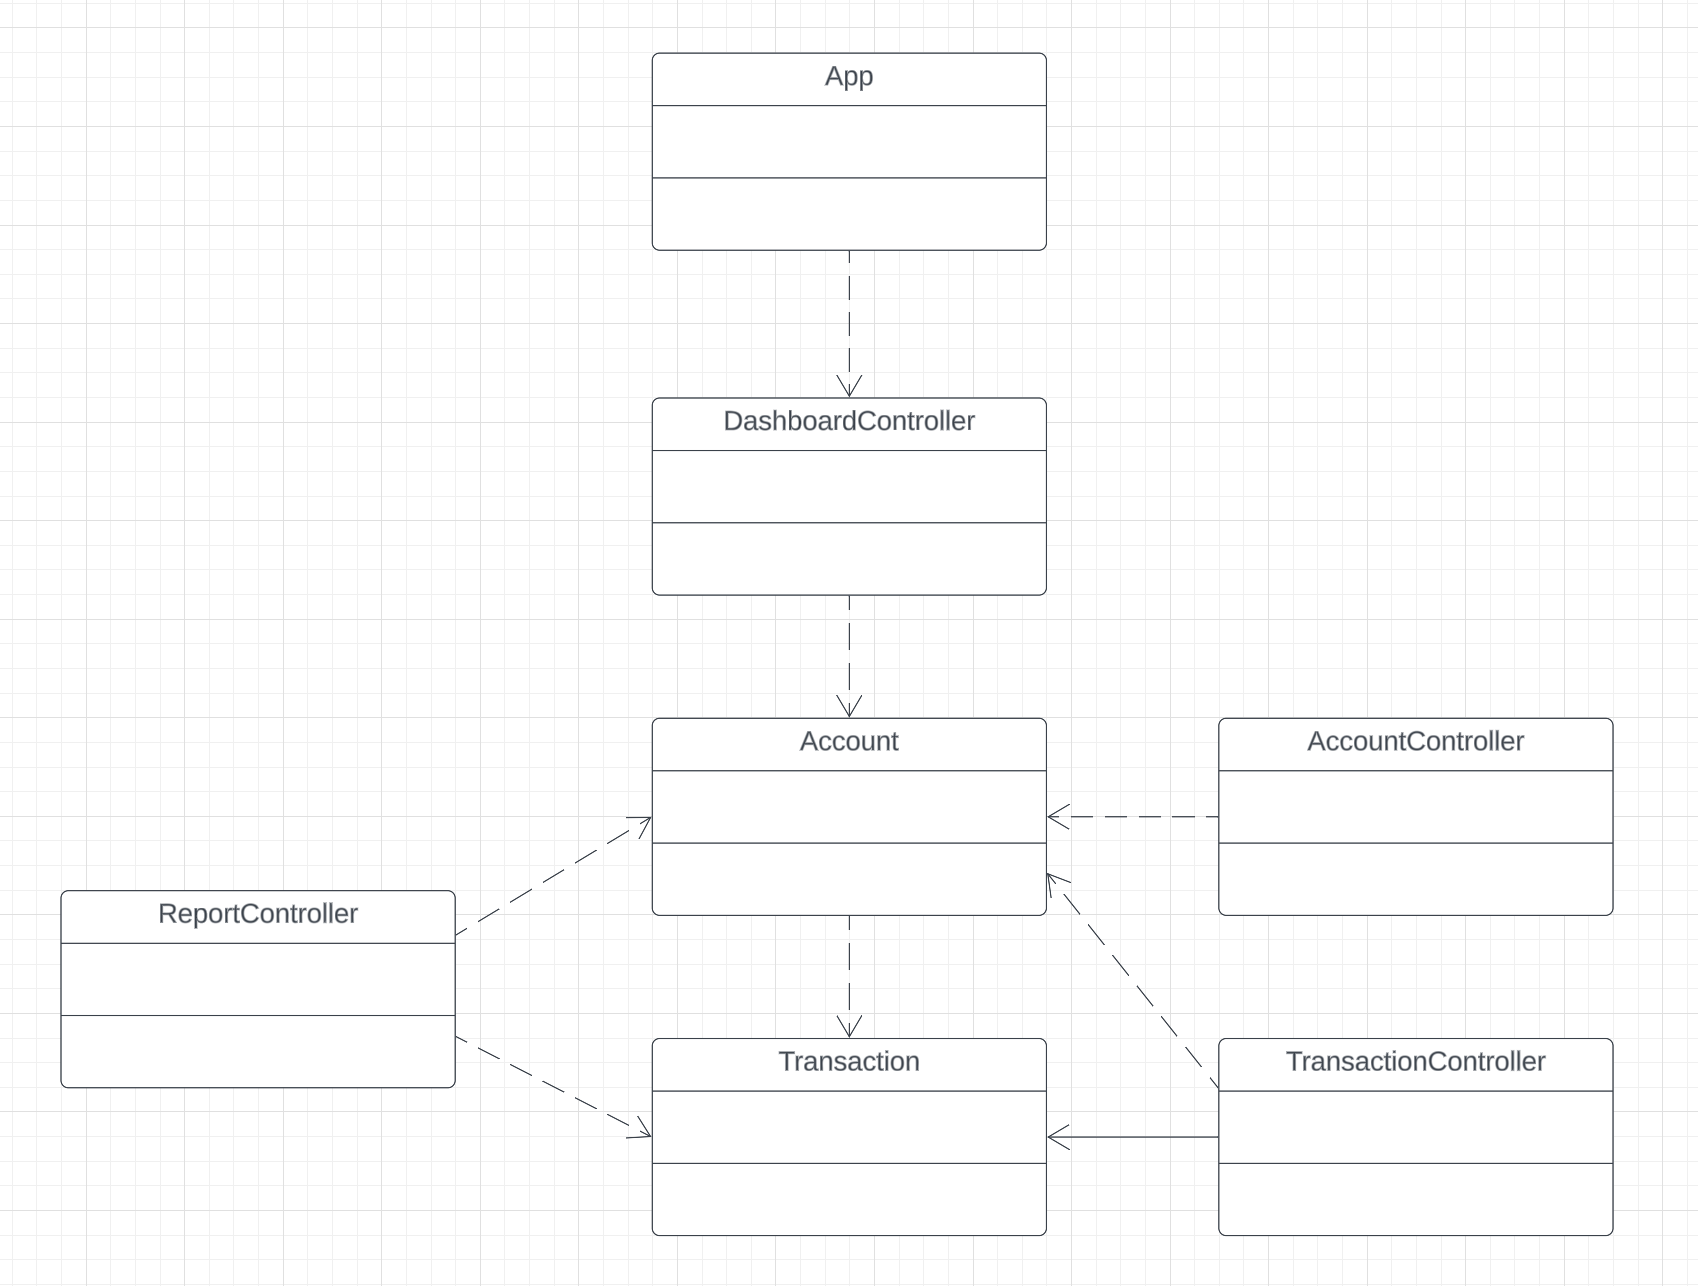
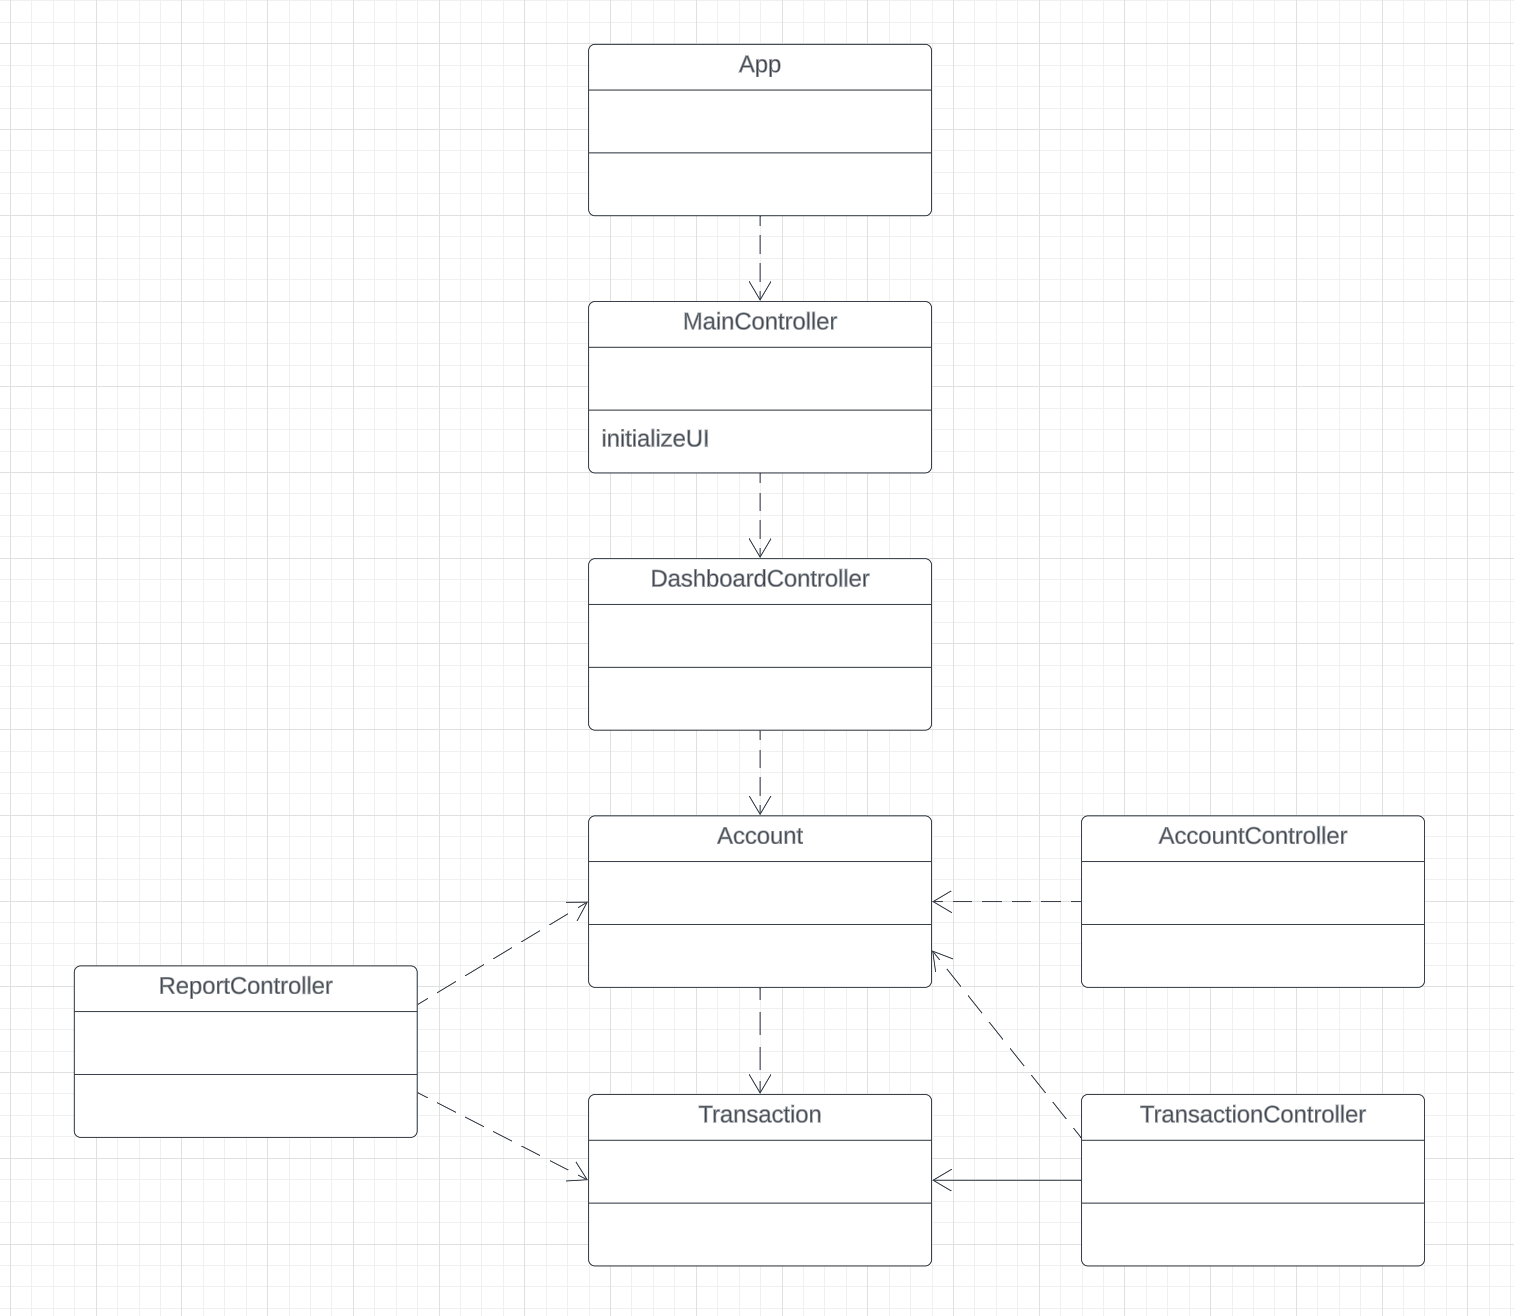
Basic working main.fxml tab views

diff --git a/personal_finance_manager/src/main/java/com/example/AccountController.java b/personal_finance_manager/src/main/java/com/example/AccountController.java
@@ -1,0 +1,22 @@
+package com.example;
+
+import java.io.IOException;
+import javafx.fxml.FXML;
+
+public class AccountController {
+
+    @FXML
+    private void addAccount() throws IOException {
+        
+    }
+
+    @FXML
+    private void editAccount() throws IOException {
+        
+    }
+
+    @FXML
+    private void deleteAccount() throws IOException {
+        
+    }
+}

diff --git a/personal_finance_manager/src/main/java/com/example/App.java b/personal_finance_manager/src/main/java/com/example/App.java
@@ -17,7 +17,8 @@ public class App extends Application {
 
     @Override
     public void start(Stage stage) throws IOException {
-        scene = new Scene(loadFXML("primary"), 640, 480);
+        scene = new Scene(loadFXML("main"), 640, 480);
+        stage.setTitle("Personal Finance Manager");
         stage.setScene(scene);
         stage.show();
     }

diff --git a/personal_finance_manager/src/main/java/com/example/TransactionController.java b/personal_finance_manager/src/main/java/com/example/TransactionController.java
@@ -1,0 +1,17 @@
+package com.example;
+
+import java.io.IOException;
+import javafx.fxml.FXML;
+
+public class TransactionController {
+
+    @FXML
+    private void loadTransactions() throws IOException {
+        
+    }
+
+    @FXML
+    private void categorizeTransactions() throws IOException {
+        
+    }
+}

diff --git a/personal_finance_manager/src/main/java/com/example/ReportController.java b/personal_finance_manager/src/main/java/com/example/ReportController.java
@@ -1,0 +1,18 @@
+package com.example;
+
+import java.io.IOException;
+import javafx.fxml.FXML;
+
+public class ReportController {
+
+    @FXML
+    private void generateReport() throws IOException {
+        
+    }
+
+    @FXML
+    private void exportReport() throws IOException {
+        
+    }
+}
+

diff --git a/personal_finance_manager/src/main/java/com/example/DashBoardController.java b/personal_finance_manager/src/main/java/com/example/DashBoardController.java
@@ -1,0 +1,12 @@
+package com.example;
+
+import java.io.IOException;
+import javafx.fxml.FXML;
+
+public class DashBoardController {
+
+    @FXML
+    private void displayOverview() throws IOException {
+        
+    }
+}

diff --git a/personal_finance_manager/src/main/java/com/example/MainController.java b/personal_finance_manager/src/main/java/com/example/MainController.java
@@ -1,0 +1,12 @@
+package com.example;
+
+import java.io.IOException;
+
+import javafx.fxml.FXML;
+
+public class MainController {
+    @FXML
+    public void initializeUI() throws IOException {
+
+    }
+}
